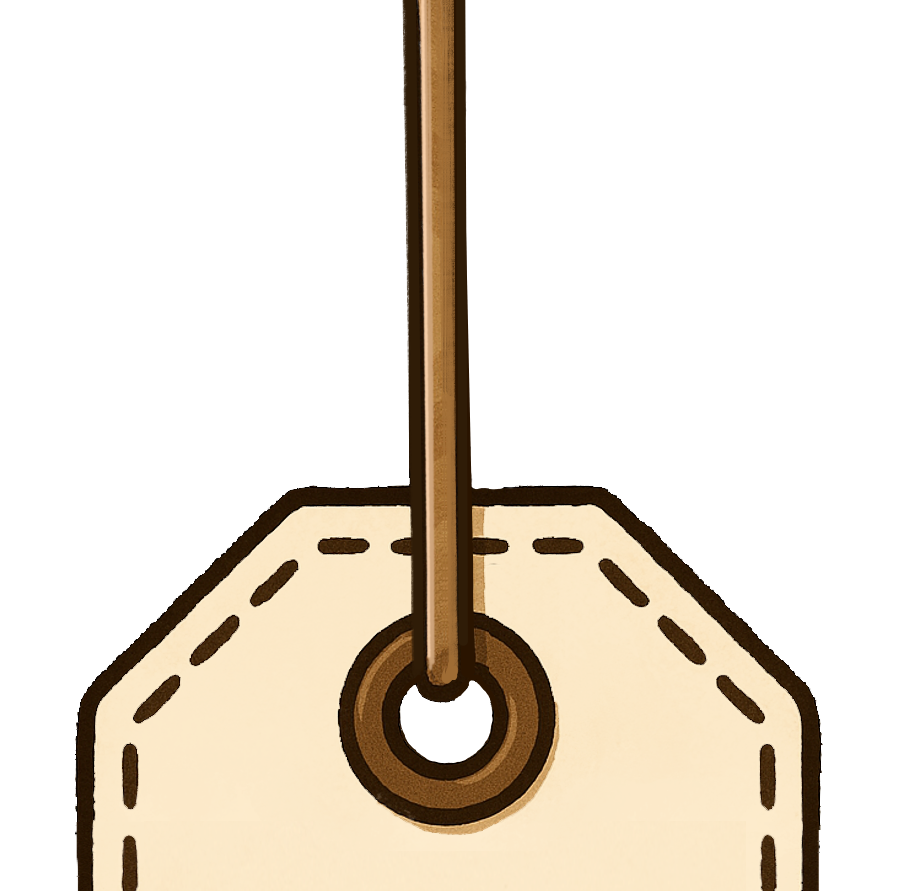
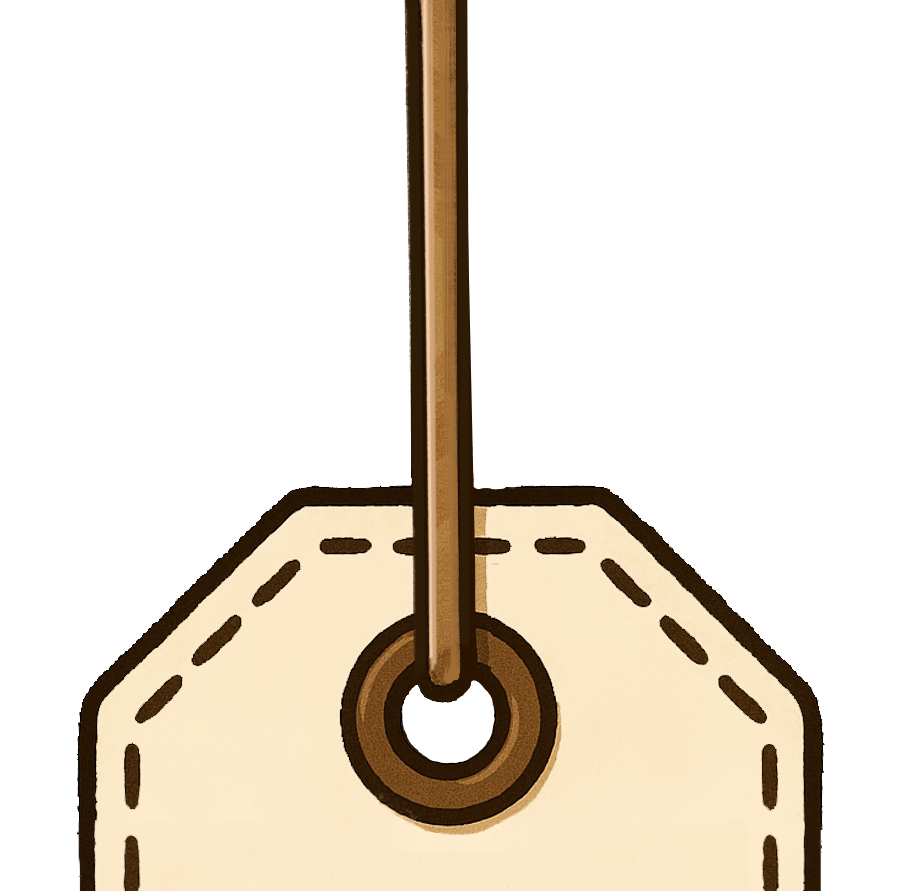
New price tag

diff --git a/deckhand2/2.css b/deckhand2/2.css
@@ -110,6 +110,7 @@ img {
     box-shadow: 0px 1px 4px #00000075;
     display: flex;
     flex-direction: column;
+    z-index: 10;
 }
 
 .top .type {
@@ -293,6 +294,7 @@ img {
     background-position: bottom;
     padding-bottom: 10px;
     padding-top: 5px;
+    filter: drop-shadow(1px 1px 0.8px #333333bb);
 }
 
 .price-tag-top {
@@ -301,6 +303,8 @@ img {
     background-repeat: no-repeat;
     height: 34px;
     background-position: top;
+    z-index: 8;
+    position: relative;
 }
 
 /* .price-tag img {
